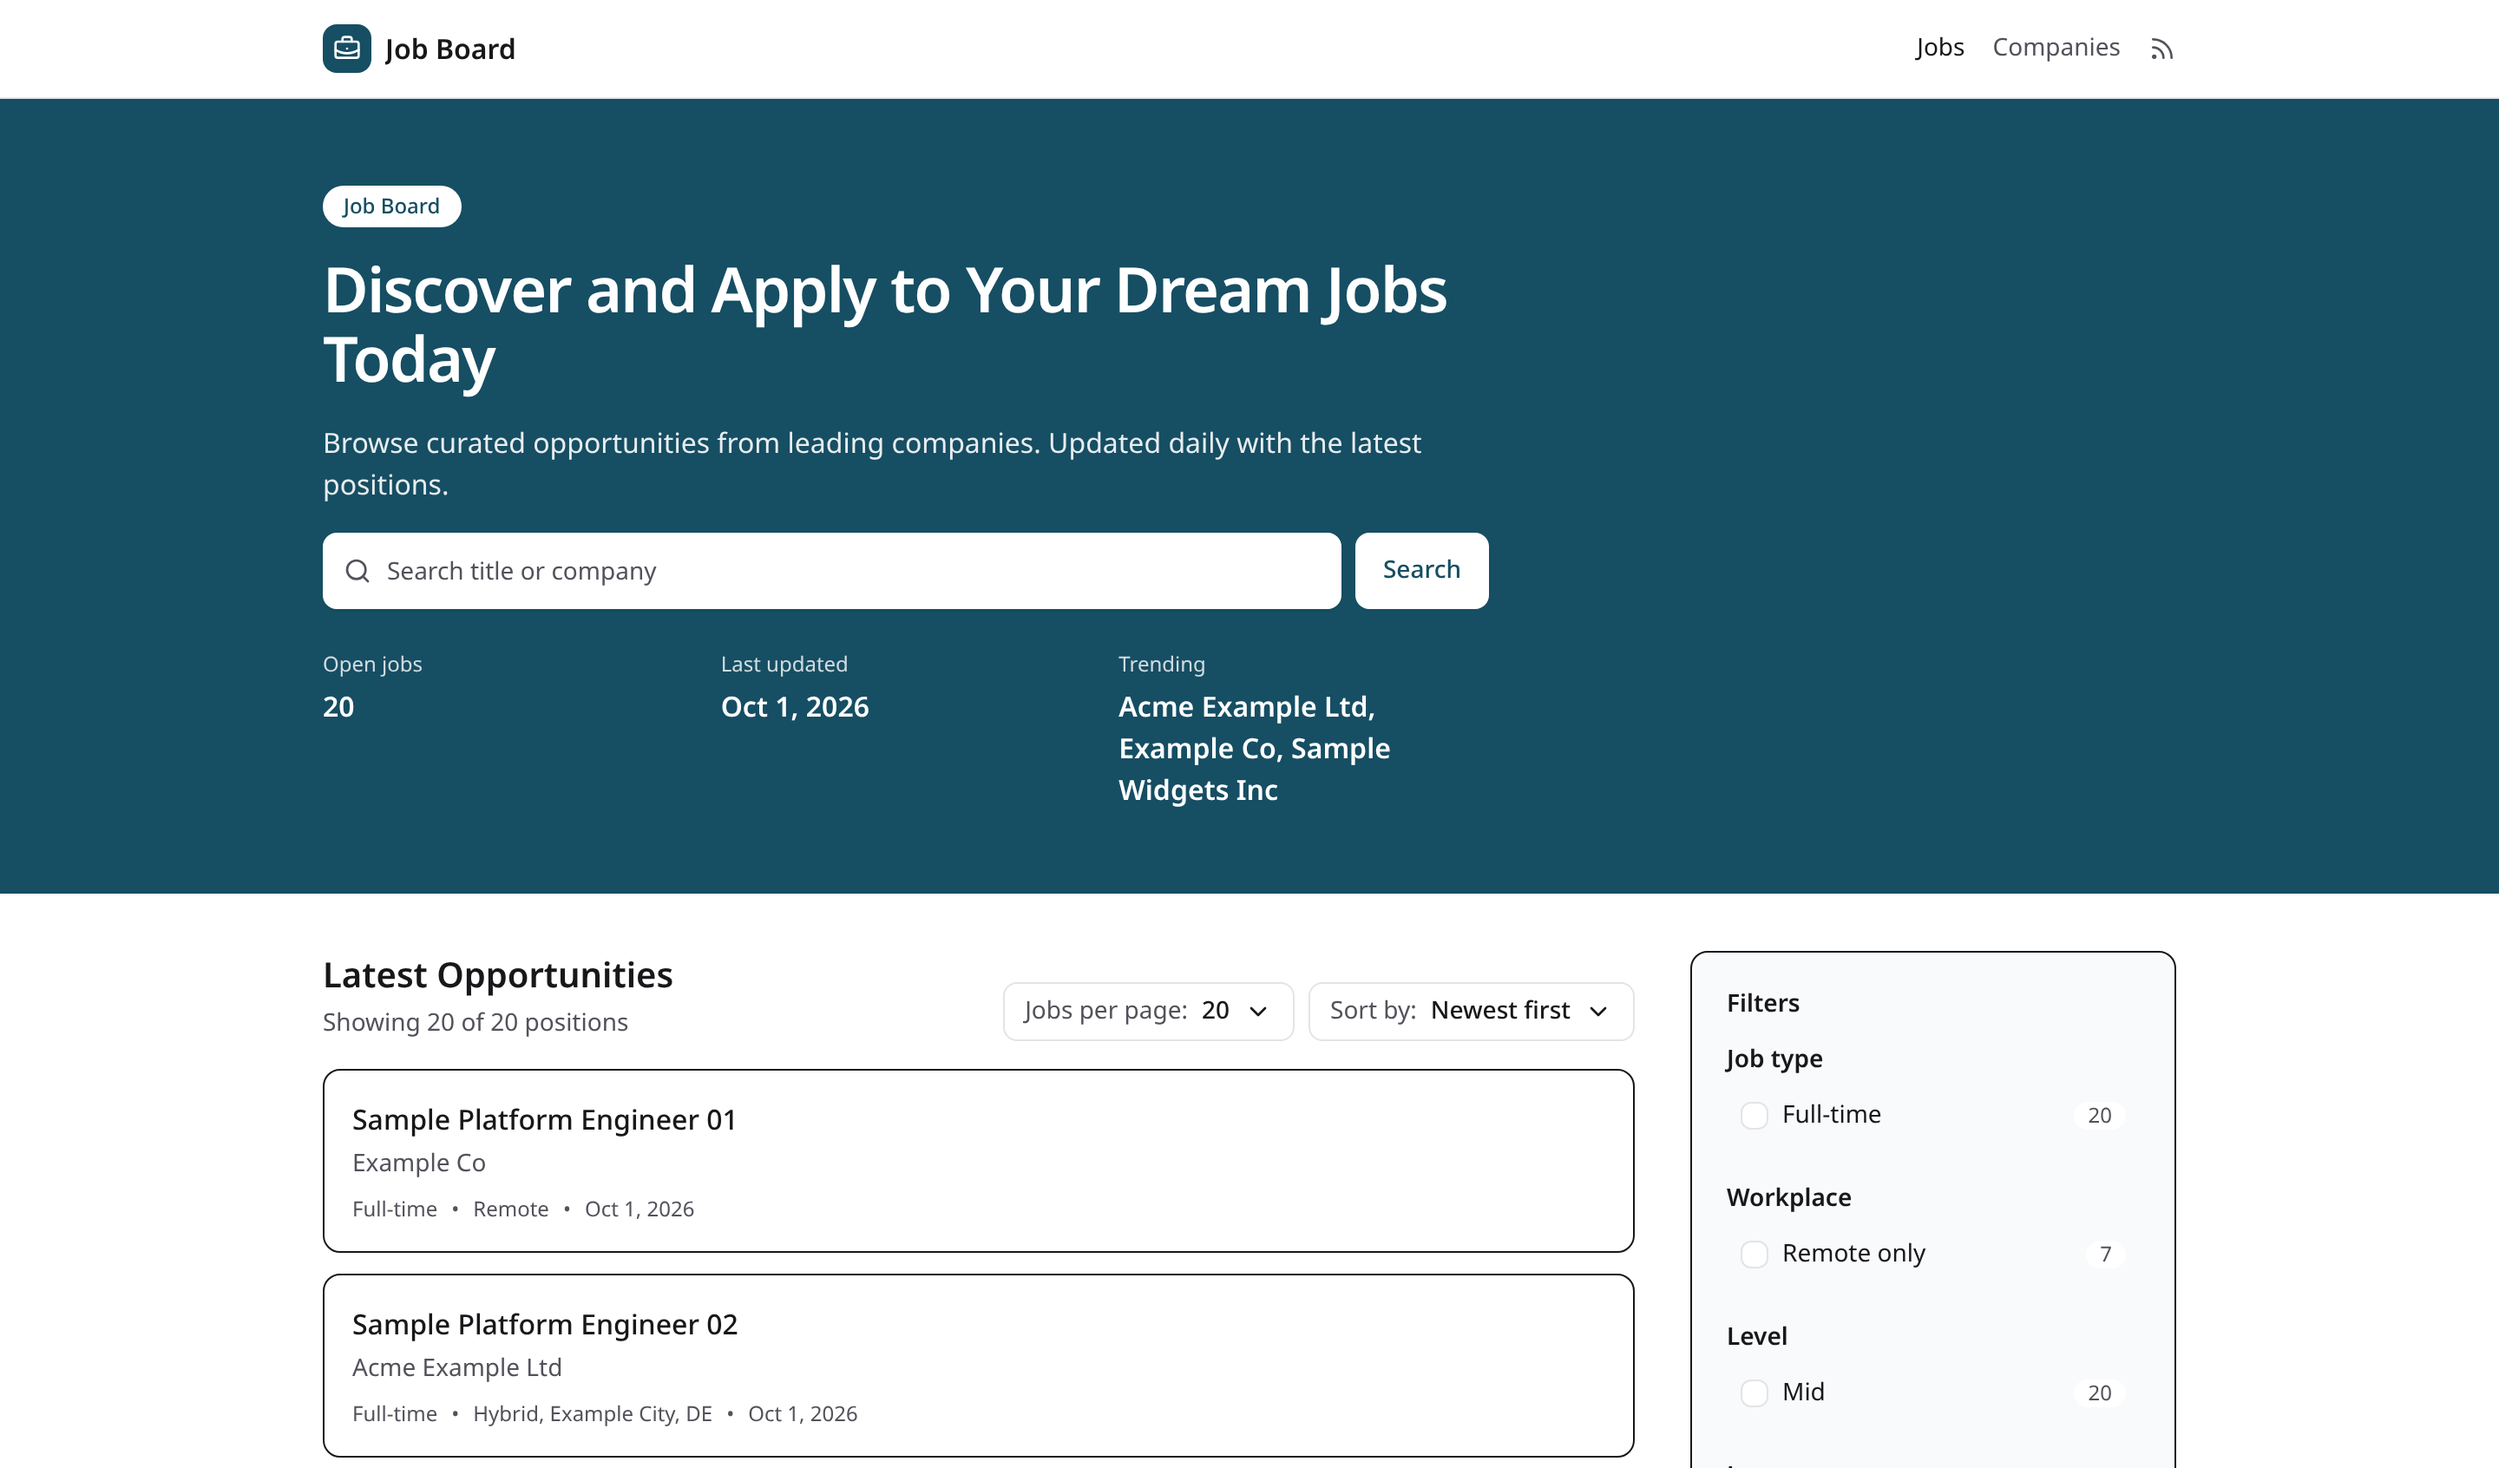
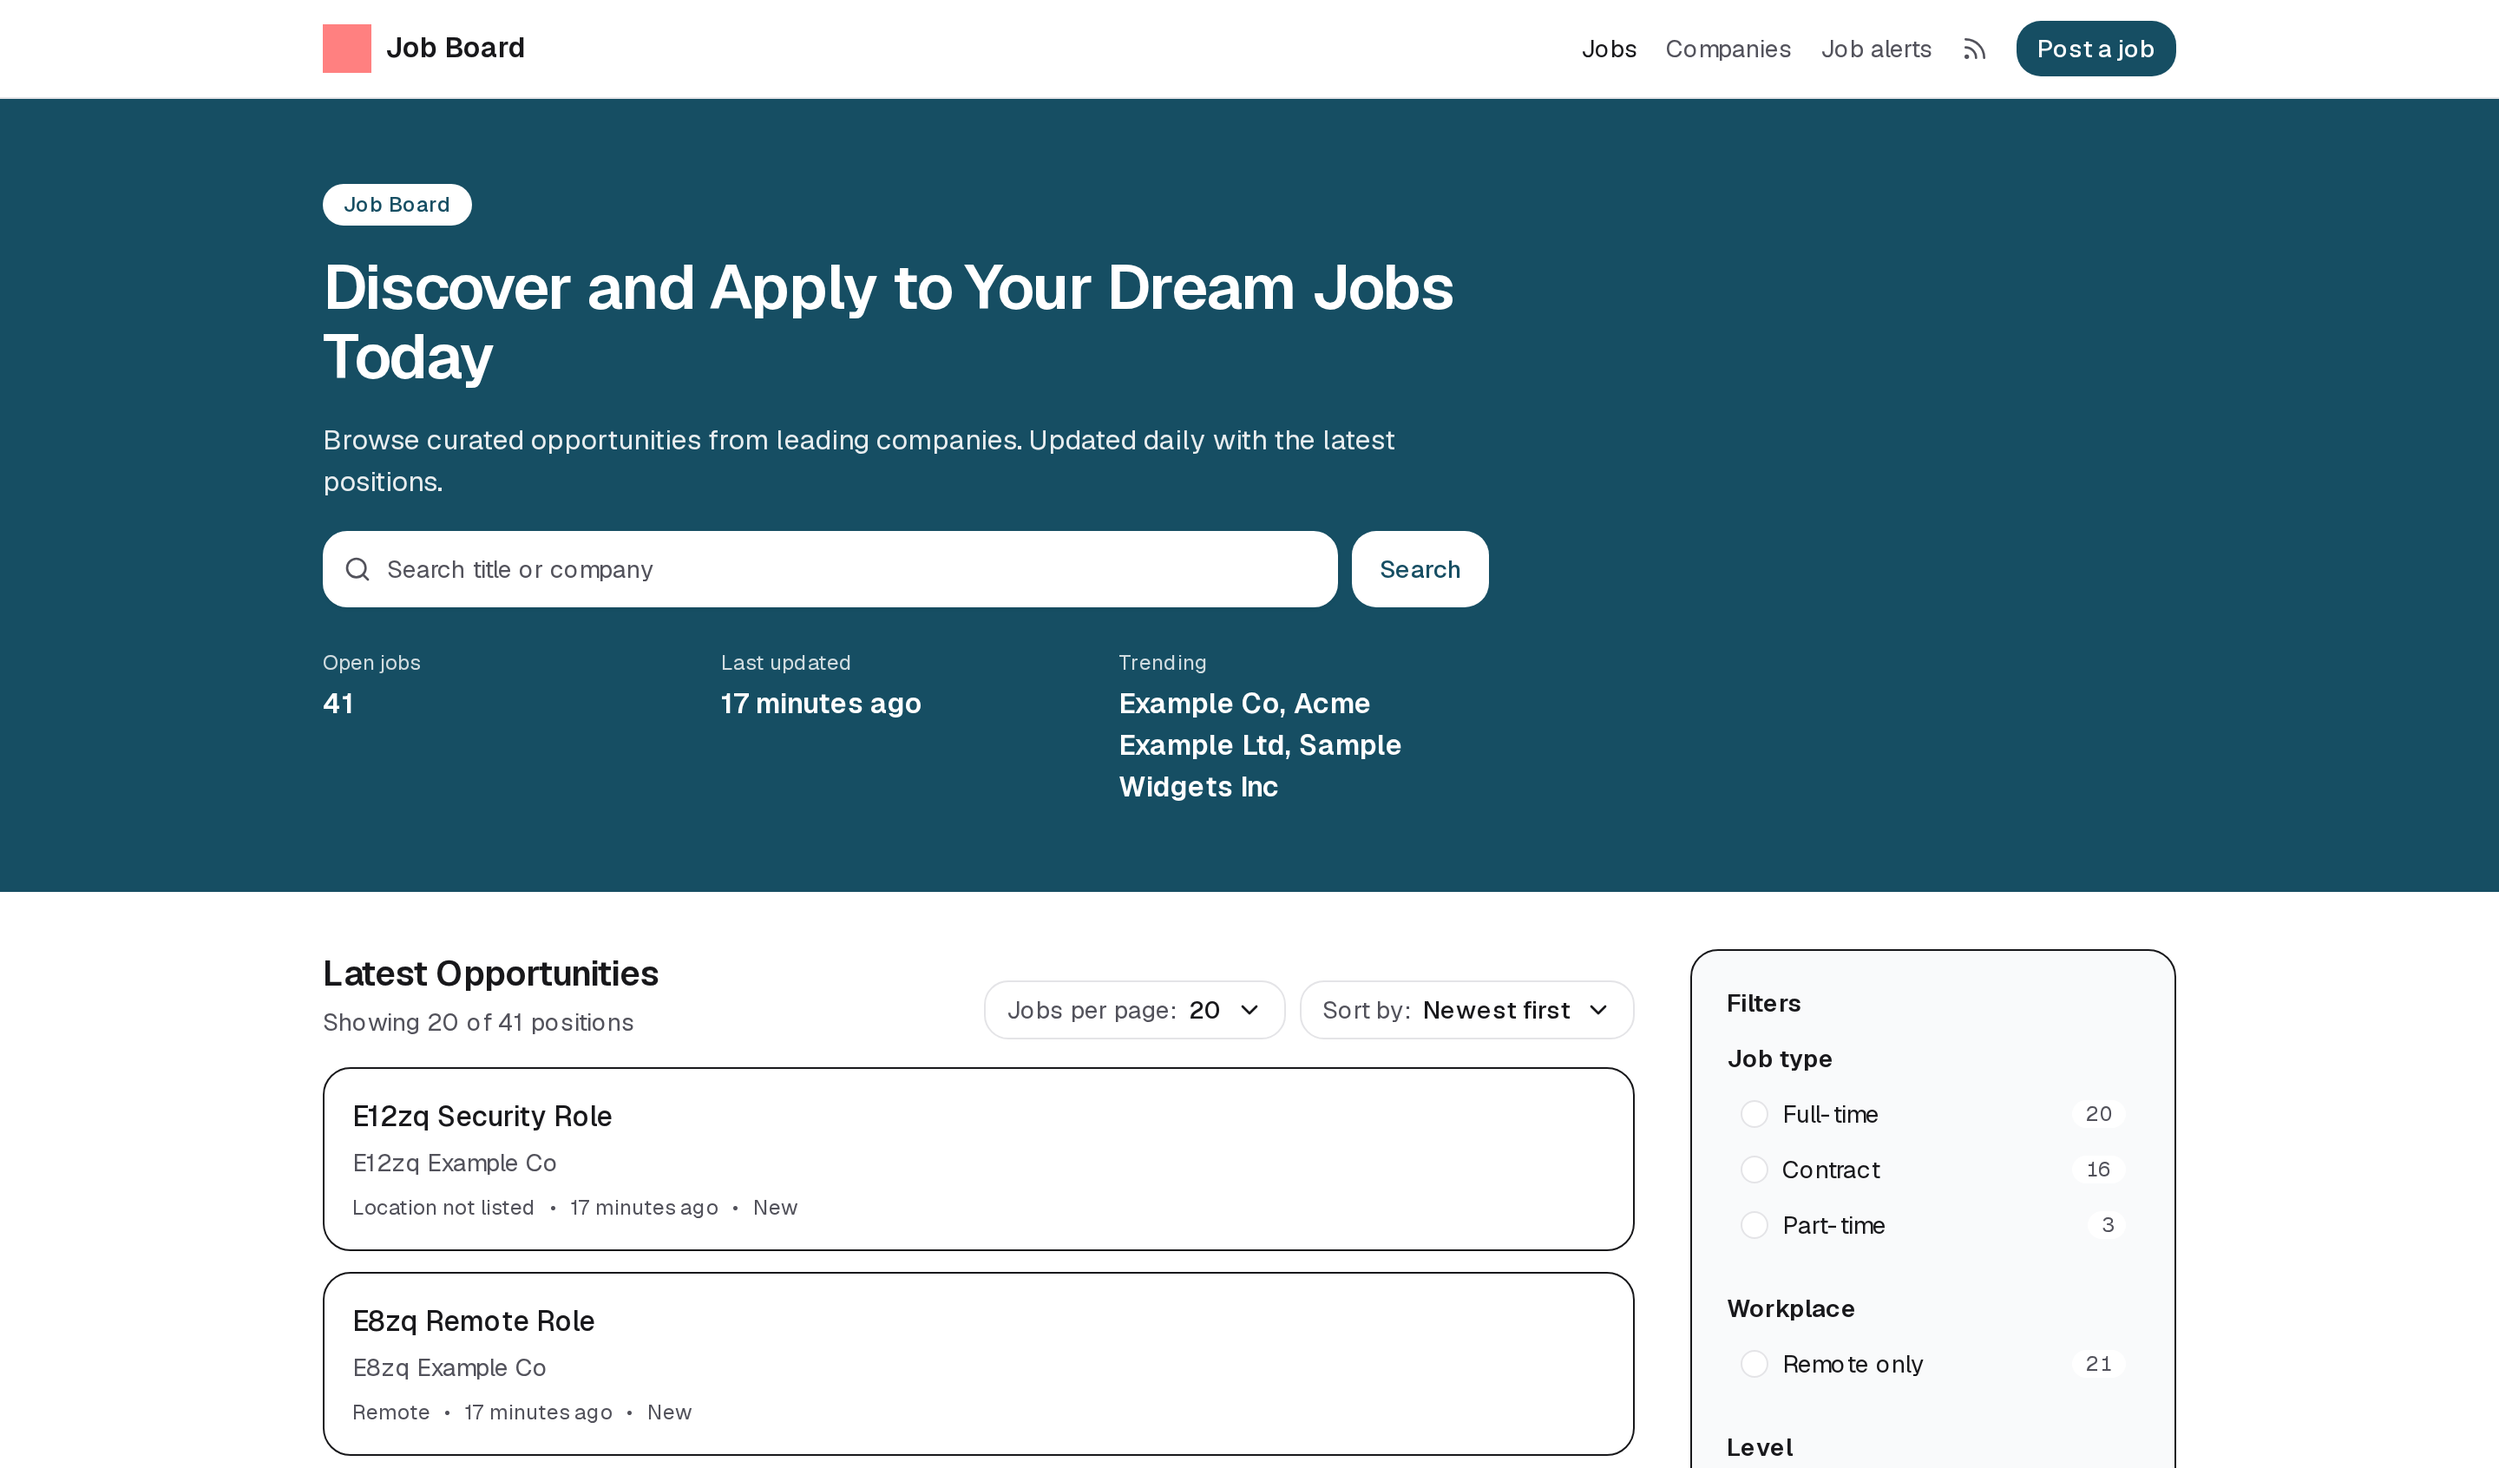
fix(rsc3): address review round 3
Recapture the hero screenshot with Geist as the body and heading font.
The lane database theme is set to "sans" for both fonts and the stored
primary color override is cleared so the capture uses the default teal.

Set the hero and showcase image width and height to the real file size
(2880x1692) so the reserved box matches the file.

diff --git a/src/components/marketing/showcase.tsx b/src/components/marketing/showcase.tsx
@@ -33,9 +33,9 @@ function ShowcaseCard({
       <MarketingImage
         alt=""
         className="w-full"
-        height={1215}
+        height={1692}
         src={entry.image}
-        width={2160}
+        width={2880}
       />
       <div className="space-y-2 p-5">
         <Heading className="font-medium text-sm">{entry.name}</Heading>

diff --git a/src/components/marketing/hero.tsx b/src/components/marketing/hero.tsx
@@ -61,9 +61,9 @@ export function Hero() {
           <MarketingImage
             alt="Bordful demo board"
             className="w-full"
-            height={1215}
+            height={1692}
             src="/marketing/bordful-demo.png"
-            width={2160}
+            width={2880}
           />
         </div>
       </Container>
